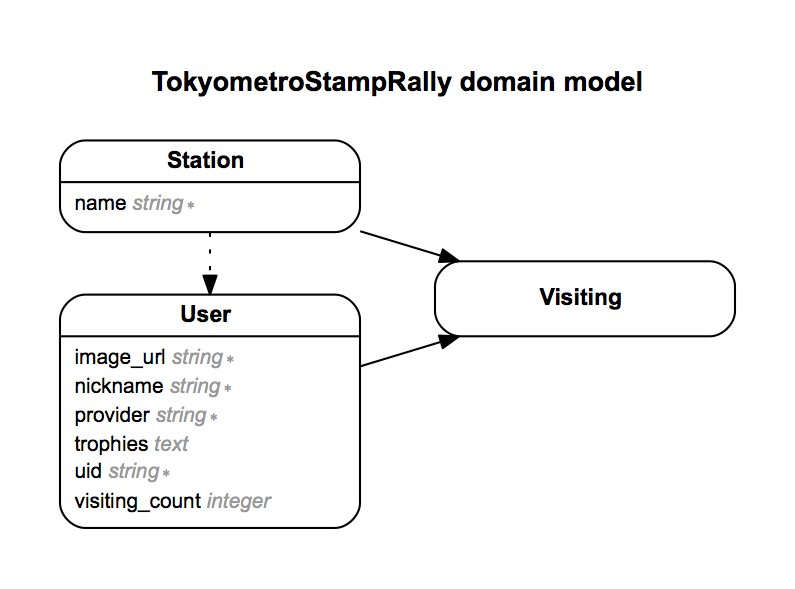
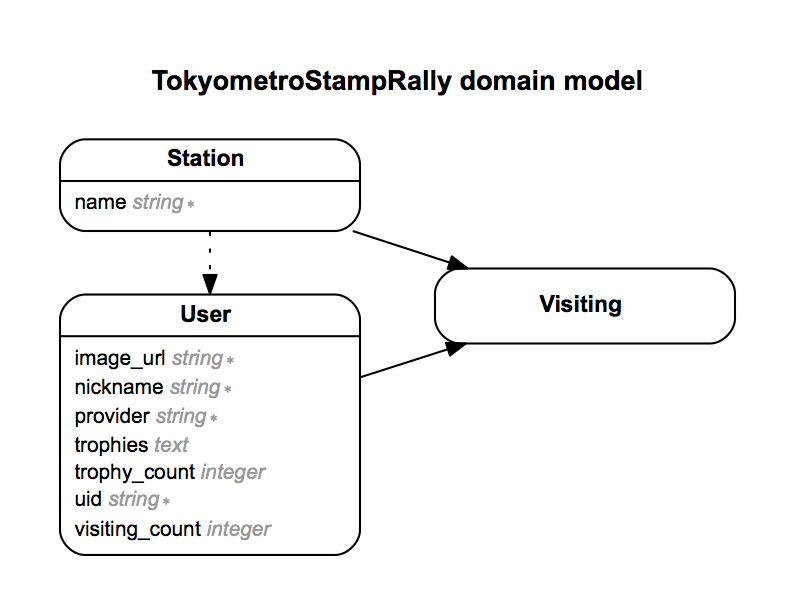
Sort index of users by trophy count

diff --git a/app/controllers/users_controller.rb b/app/controllers/users_controller.rb
@@ -2,7 +2,7 @@ class UsersController < ApplicationController
   before_action :authenticate
 
   def index
-    @users = User.paginate(page: params[:page]).order('visiting_count DESC')
+    @users = User.paginate(page: params[:page]).order( 'trophy_count DESC', 'visiting_count DESC')
   end
 
   def show
